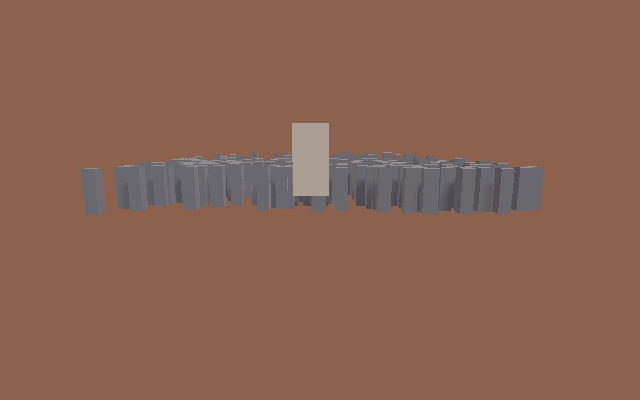
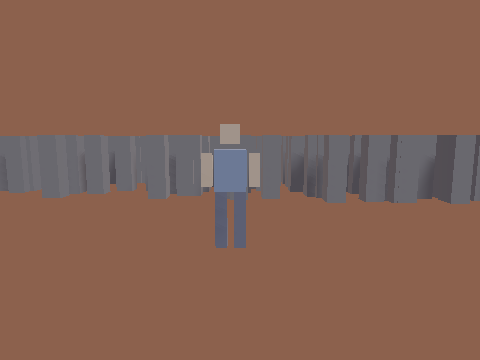
feat(kami-live): offscreen wgpu skinned-mesh scaffold (vrm_mesh example) — validated pipeline

Changed region(s): [[0.0, 0.3056, 1.0, 0.7028]]

diff --git a/kami-live/examples/vrm_mesh.rs b/kami-live/examples/vrm_mesh.rs
@@ -1,0 +1,92 @@
+//! Offscreen GPU validation: render a single lit triangle to PNG (wgpu 24).
+//! Foundation for the skinned humanoid mesh that replaces the box performer.
+//! `cargo run -p kami-live --example vrm_mesh --target aarch64-apple-darwin`
+
+fn main() {
+    pollster::block_on(run());
+}
+
+async fn run() {
+    let (w, h) = (320u32, 240u32);
+    let instance = wgpu::Instance::default();
+    let adapter = instance
+        .request_adapter(&wgpu::RequestAdapterOptions::default())
+        .await
+        .expect("adapter");
+    let (device, queue) = adapter
+        .request_device(&wgpu::DeviceDescriptor::default(), None)
+        .await
+        .expect("device");
+
+    let fmt = wgpu::TextureFormat::Rgba8UnormSrgb;
+    let tex = device.create_texture(&wgpu::TextureDescriptor {
+        label: None,
+        size: wgpu::Extent3d { width: w, height: h, depth_or_array_layers: 1 },
+        mip_level_count: 1,
+        sample_count: 1,
+        dimension: wgpu::TextureDimension::D2,
+        format: fmt,
+        usage: wgpu::TextureUsages::RENDER_ATTACHMENT | wgpu::TextureUsages::COPY_SRC,
+        view_formats: &[],
+    });
+    let view = tex.create_view(&wgpu::TextureViewDescriptor::default());
+
+    let shader = device.create_shader_module(wgpu::ShaderModuleDescriptor {
+        label: None,
+        source: wgpu::ShaderSource::Wgsl(
+            r#"
+            @vertex fn vs(@builtin(vertex_index) i: u32) -> @builtin(position) vec4<f32> {
+              var p = array<vec2<f32>,3>(vec2(0.0,0.6), vec2(-0.6,-0.5), vec2(0.6,-0.5));
+              return vec4<f32>(p[i], 0.0, 1.0);
+            }
+            @fragment fn fs() -> @location(0) vec4<f32> { return vec4<f32>(0.4,0.7,1.0,1.0); }
+            "#
+            .into(),
+        ),
+    });
+    let pipeline = device.create_render_pipeline(&wgpu::RenderPipelineDescriptor {
+        label: None,
+        layout: None,
+        vertex: wgpu::VertexState { module: &shader, entry_point: Some("vs"), buffers: &[], compilation_options: Default::default() },
+        fragment: Some(wgpu::FragmentState { module: &shader, entry_point: Some("fs"), targets: &[Some(fmt.into())], compilation_options: Default::default() }),
+        primitive: wgpu::PrimitiveState::default(),
+        depth_stencil: None,
+        multisample: wgpu::MultisampleState::default(),
+        multiview: None,
+        cache: None,
+    });
+
+    let mut enc = device.create_command_encoder(&wgpu::CommandEncoderDescriptor::default());
+    {
+        let mut rp = enc.begin_render_pass(&wgpu::RenderPassDescriptor {
+            label: None,
+            color_attachments: &[Some(wgpu::RenderPassColorAttachment {
+                view: &view,
+                resolve_target: None,
+                ops: wgpu::Operations { load: wgpu::LoadOp::Clear(wgpu::Color { r: 0.1, g: 0.1, b: 0.15, a: 1.0 }), store: wgpu::StoreOp::Store },
+            })],
+            depth_stencil_attachment: None,
+            timestamp_writes: None,
+            occlusion_query_set: None,
+        });
+        rp.set_pipeline(&pipeline);
+        rp.draw(0..3, 0..1);
+    }
+    // readback
+    let bpr = (w * 4).div_ceil(256) * 256;
+    let buf = device.create_buffer(&wgpu::BufferDescriptor { label: None, size: (bpr * h) as u64, usage: wgpu::BufferUsages::COPY_DST | wgpu::BufferUsages::MAP_READ, mapped_at_creation: false });
+    enc.copy_texture_to_buffer(
+        wgpu::ImageCopyTexture { texture: &tex, mip_level: 0, origin: wgpu::Origin3d::ZERO, aspect: wgpu::TextureAspect::All },
+        wgpu::ImageCopyBuffer { buffer: &buf, layout: wgpu::ImageDataLayout { offset: 0, bytes_per_row: Some(bpr), rows_per_image: Some(h) } },
+        wgpu::Extent3d { width: w, height: h, depth_or_array_layers: 1 },
+    );
+    queue.submit([enc.finish()]);
+    let slice = buf.slice(..);
+    slice.map_async(wgpu::MapMode::Read, |_| {});
+    device.poll(wgpu::Maintain::Wait);
+    let data = slice.get_mapped_range();
+    let mut px = vec![0u8; (w * h * 4) as usize];
+    for y in 0..h { let s = (y * bpr) as usize; let d = (y * w * 4) as usize; px[d..d + (w*4) as usize].copy_from_slice(&data[s..s + (w*4) as usize]); }
+    image::save_buffer("vrm_mesh_test.png", &px, w, h, image::ExtendedColorType::Rgba8).unwrap();
+    println!("wrote vrm_mesh_test.png — offscreen wgpu pipeline validated");
+}